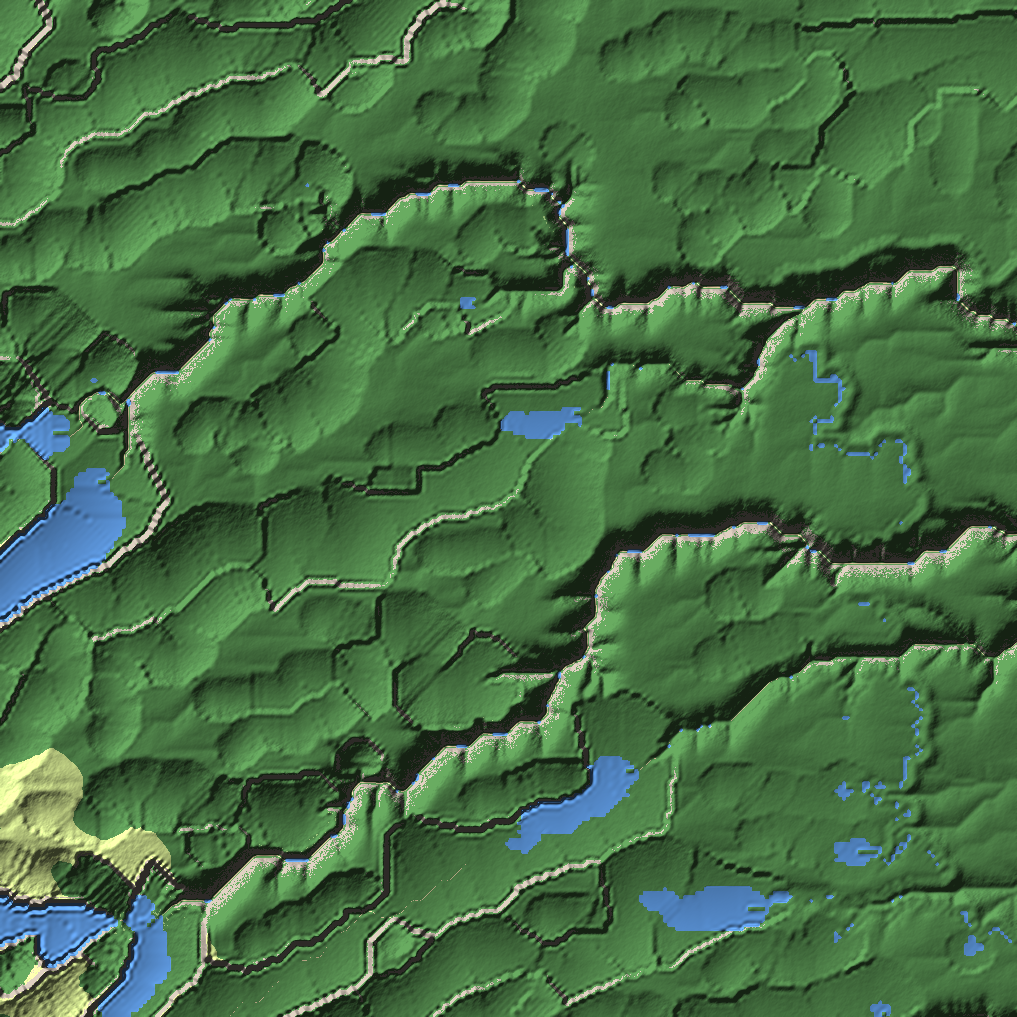
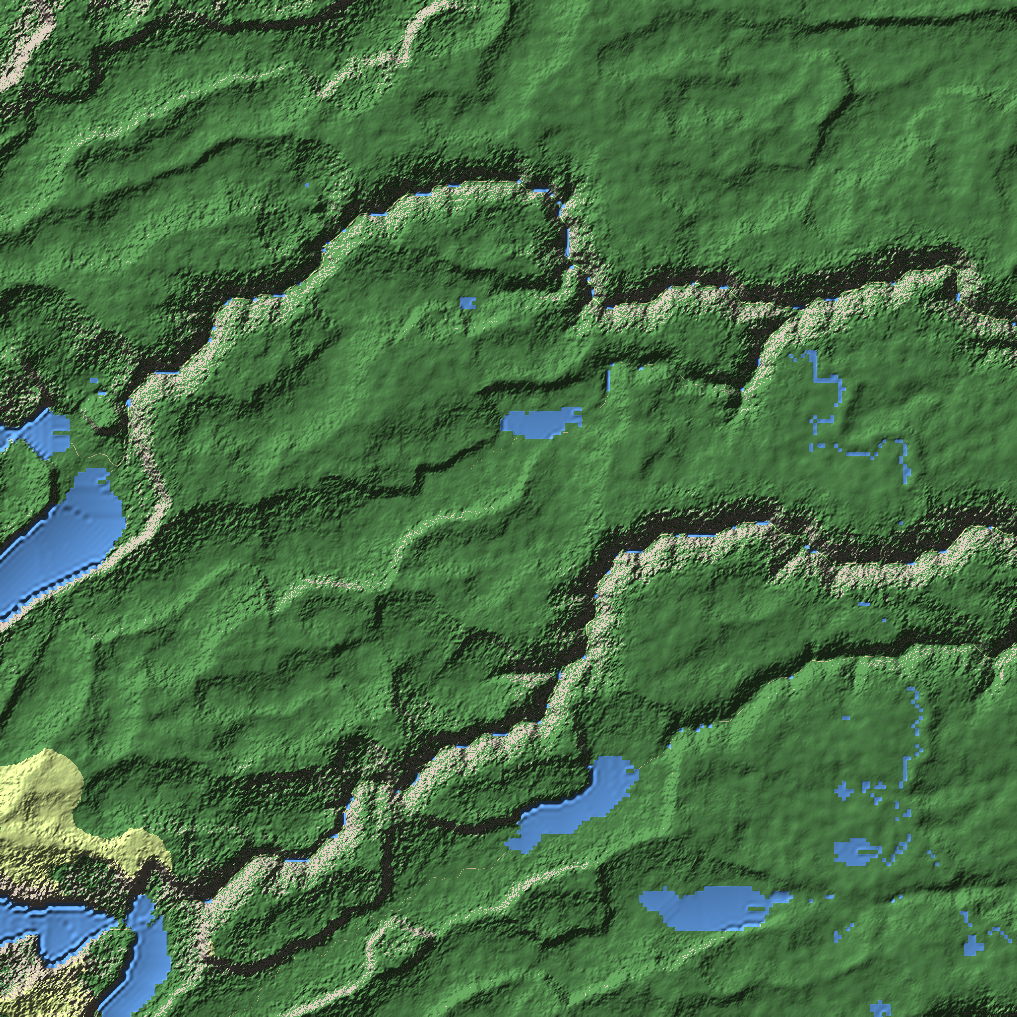
Plot detailing: river inflow fix, 25 m refinement, docs for detailing decisions
Claude-Session: https://claude.ai/code/session_01KF85DV7pzGDALPv8H3oUJH

diff --git a/fictional_map/regions/southern_coast_range/scripts/refine_25m.py b/fictional_map/regions/southern_coast_range/scripts/refine_25m.py
@@ -20,11 +20,11 @@ from region_flow import accumulate, diffuse, route, stream_power
 
 DX = 25.0
 MARGIN_M = 2000.0                 # beyond the square, so the plots' edges are not at the model edge
-ERODE_YR, DT = 2.0e5, 2.0e4
+ERODE_YR, DT = 3.0e5, 2.0e4
 K_SP, M_SP = 1.0e-6, 0.5          # same as the regional model
 D_HILL = 0.01
 POSTGLACIAL_YR = 1.5e4
-SEED_RELIEF_M = 4.0               # sub-100 m roughness from which gullies start
+SEED_RELIEF_M = 6.0               # sub-100 m roughness from which gullies start
 
 t0 = time.time()
 m = np.load(os.path.join(REGION_OUT, "regional_model.npz"))
@@ -47,9 +47,32 @@ LAT, LON = xy_to_latlon(X, Y)
 runoff = np.clip(sample_world(wd["hydro"]["runoff_mm"], LAT, LON, 1), 0, None) / 1000.0
 del LAT, LON
 fixed = sea | lake
+# rivers that enter the refined area from outside (e.g. the main river rising on the range crest west of the
+# square): inject the regional model's discharge where they cross into the 25 m grid
+f100, rec100, _, _, _ = route(z100, m["sea"], 100.0)
+X100, Y100 = np.meshgrid(xs, ys)
+ins100 = (np.abs(X100) < half) & (np.abs(Y100) < half)
+r_ = rec100.reshape(-1)
+src = np.nonzero(~ins100.ravel() & ins100.ravel()[r_] & (np.arange(r_.size) != r_))[0]
+inflow = np.zeros(z.shape)
+Q100 = m["discharge_m3s"].ravel() * 3.15576e7
+for k in src:
+    if Q100[k] <= 0:
+        continue
+    # follow the regional river ~1 km into the grid: cells at the grid edge drain straight out of the model
+    kk = int(r_[k])
+    for _ in range(100):
+        jx, ix_ = divmod(kk, xs.size)
+        if min(half - abs(xs[ix_]), half - abs(ys[jx])) > 1000.0 or r_[kk] == kk:
+            break
+        kk = int(r_[kk])
+    jx, ix_ = divmod(kk, xs.size)
+    jj = int(np.clip((y[0] - ys[jx]) / DX, 0, z.shape[0] - 1)); ii = int(np.clip((xs[ix_] - x[0]) / DX, 0, z.shape[1] - 1))
+    inflow[jj, ii] += Q100[k]
+del X100, Y100
 z = np.where(fixed, z, z + noise)
 kfac = (1 - ice) + ice * (POSTGLACIAL_YR / ERODE_YR)       # young glacial surfaces barely eroded
-q_cell = (runoff * DX * DX).ravel()
+q_cell = (runoff * DX * DX + inflow).ravel()
 H, W = z.shape
 print(f"grid {W} x {H} = {H * W / 1e6:.1f} M cells, setup {time.time() - t0:.0f} s")
 for step in range(int(ERODE_YR / DT)):
@@ -58,7 +81,8 @@ for step in range(int(ERODE_YR / DT)):
     zf = stream_power(z.ravel().copy(), oa, rec, dist, Q * kfac.ravel() ** 2, K_SP, M_SP, DT, fixed.ravel())
     z = diffuse(zf.reshape(H, W), D_HILL, DT, DX, fixed, 1)
     print(f"step {step + 1}: {time.time() - t0:.0f} s", flush=True)
-f, rec, dist, oa, od = route(z, fixed, DX)
+# today's discharge: water flows through the lakes (only the sea is a sink)
+f, rec, dist, oa, od = route(z, sea, DX)
 Qs = (accumulate(od, rec, q_cell) / 3.15576e7).reshape(H, W)
 np.savez_compressed(os.path.join(REGION_OUT, "refined_25m.npz"), x_m=x.astype(np.float32), y_m=y.astype(np.float32),
                     elevation_m=z.astype(np.float32), discharge_m3s=Qs.astype(np.float32), lake=lake, sea=sea,

diff --git a/fictional_map/regions/southern_coast_range/MODEL_NOTES.md b/fictional_map/regions/southern_coast_range/MODEL_NOTES.md
@@ -47,6 +47,24 @@ This file records every scientific decision, why it was made and what it rests o
 - Discharge from the planet's runoff routed over the final terrain. The square's largest river (~130 m³/s at the
   square's edge in this model) drains east towards the sea.
 
+## 6. From 100 m to the 3 m plots
+
+- **25 m refinement (`refine_25m.py`).** Interpolated 100 m terrain plus random noise had the right roughness statistics
+  but the wrong shapes (lumps instead of gullies and spurs). Instead, the same stream-power erosion and hillslope
+  diffusion run again on a 25 m grid for 300 000 years. Former glacier areas are eroded only for the ~15 000 years since
+  the ice melted, so troughs and moraines stay fresh. Rivers entering the area from outside carry the regional model's
+  discharge (injected ~1 km inside the grid so they do not drain straight out of its edge).
+- **Roughness below 100 m (`detail_plots.py`).** Self-affine detail with Hurst exponent 0.5: along transects Earth's
+  topography has a power spectrum close to k⁻² (Hurst ~0.5, fractal dimension ~2.5). Its amplitude follows the local
+  relief and is damped on gentle ground (valley floors, plains). Below ~20 m it is weaker on soil-covered slopes than on rock.
+- **Check of the result:** the spectral exponent of the plots over 100 m – 2 km is ~2.6, inside the accepted band (1.6–2.6),
+  but at its rough end: the plots are still a little smoother than typical Earth terrain at hillslope scale.
+- **Rivers:** courses from the 25 m drainage network (≥ 1 m³/s), smoothed and snapped to the lowest line of the valley floor;
+  width 5·Q^0.5, depth from Manning's equation (n = 0.035) with the local slope; banks rise ~15% and fade into the terrain.
+- **Treeline:** where the growing-season mean temperature (months above 0 °C) is 6.7 °C, the value found at high-altitude
+  treelines worldwide (Körner & Paulsen 2004). Here ~1 280 m.
+- **Seams:** every vertex is computed from world coordinates only; neighbouring plots share identical edge vertices.
+
 ## Known limitations (v1)
 
 - Mountain slopes are gentle for a 2 km range (median ~5°, 90% below ~20° above 1000 m): the planet relief that
@@ -55,4 +73,5 @@ This file records every scientific decision, why it was made and what it rests o
 - Glaciers are placed by the accumulation-area method, not by an ice-flow simulation; ice thickness is not modelled.
 - Glacial sediment (outwash plains in front of the moraines) is not modelled.
 - Small rectangular artefacts can appear where moraine ridges meet the edge of a glacier system.
-- The 100 m grid cannot show streams draining less than a few km²; those come with the 3 m plot detailing.
+- Streams smaller than ~1 m³/s are not cut as channels; they exist only as gullies in the 25 m relief.
+- Ground layers are hard 0/255 masks (no blending between layers yet).

diff --git a/fictional_map/regions/southern_coast_range/VALIDATION_PLOTS.md b/fictional_map/regions/southern_coast_range/VALIDATION_PLOTS.md
@@ -2,19 +2,19 @@
 
 Generated by `scripts/validate_plots.py` for the plots present in `export/`.
 
-**Result: 5 / 7 checks passed** (2 plots, 1 shared edges).
+**Result: 7 / 7 checks passed** (2 plots, 1 shared edges).
 
-Treeline (growing-season mean 6.7 C, Koerner & Paulsen 2004): median height 1268 m.
+Treeline (growing-season mean 6.7 C, Koerner & Paulsen 2004): median height 1279 m.
 
 | Kind | Check | Value | Reference | Accepted band | Result | Source |
 |---|---|---|---|---|---|---|
 | seams | tile_x1_y1 | tile_x2_y1: max height difference on the shared edge (one 16-bit step is 0.078 m) | 0.0 m | 0 | 0–0.08 m | PASS | ue |
-| Earth data | tile_x1_y1: spectral exponent beta of height transects (20 m - 2 km) | 3.2676 | ~2 (1.8-2.1 reported) | 1.6–2.6 | FAIL | spectrum |
-| model | tile_x1_y1: mean difference from the regional model (outside lakes) | -0.3224 m | 0 | -3.0–3.0 m | PASS | model |
-| Earth data | tile_x1_y1: height range fits Unreal Z scale 1000 | 1250.4688 m | <= 2559.9 | 0–2559.9 m | PASS | ue |
-| Earth data | tile_x2_y1: spectral exponent beta of height transects (20 m - 2 km) | 3.3908 | ~2 (1.8-2.1 reported) | 1.6–2.6 | FAIL | spectrum |
-| model | tile_x2_y1: mean difference from the regional model (outside lakes) | -0.0804 m | 0 | -3.0–3.0 m | PASS | model |
-| Earth data | tile_x2_y1: height range fits Unreal Z scale 1000 | 711.25 m | <= 2559.9 | 0–2559.9 m | PASS | ue |
+| Earth data | tile_x1_y1: spectral exponent beta of height transects (100 m - 2 km) (hillslope scale; below ~20 m soil-covered ground is smoother) | 2.5771 | ~2 (1.8-2.1 reported) | 1.6–2.6 | PASS | spectrum |
+| model | tile_x1_y1: mean difference from the base model (outside lakes) | -0.2052 m | 0 | -3.0–3.0 m | PASS | model |
+| Earth data | tile_x1_y1: height range fits Unreal Z scale 1000 | 1184.0625 m | <= 2559.9 | 0–2559.9 m | PASS | ue |
+| Earth data | tile_x2_y1: spectral exponent beta of height transects (100 m - 2 km) (hillslope scale; below ~20 m soil-covered ground is smoother) | 2.572 | ~2 (1.8-2.1 reported) | 1.6–2.6 | PASS | spectrum |
+| model | tile_x2_y1: mean difference from the base model (outside lakes) | -0.0429 m | 0 | -3.0–3.0 m | PASS | model |
+| Earth data | tile_x2_y1: height range fits Unreal Z scale 1000 | 719.0625 m | <= 2559.9 | 0–2559.9 m | PASS | ue |
 
 ## Sources
 

diff --git a/fictional_map/regions/southern_coast_range/USAGE.md b/fictional_map/regions/southern_coast_range/USAGE.md
@@ -179,7 +179,7 @@ record the reason in `MODEL_NOTES.md`, then run both scripts again.
 
 ```
 cd fictional_map/regions/southern_coast_range/scripts
-python refine_25m.py                          # once, ~3-5 minutes, ~3 GB RAM: 25 m erosion refinement
+python refine_25m.py                          # once, ~5 minutes, ~3 GB RAM: 25 m erosion refinement
 python detail_plots.py --tiles x2_y1 --preview  # seconds: 1/8-resolution preview of one plot
 python detail_plots.py --tiles x1_y1 x2_y1      # selected plots, full resolution (~1 minute each)
 python detail_plots.py --tiles all              # all 16 plots (~20 minutes, ~0.6 GB on disk)
@@ -191,7 +191,8 @@ add `--reprep` to rebuild it after re-running `regional_model.py` or `refine_25m
 
 **What `refine_25m.py` does:** re-runs the regional erosion physics on a 25 m grid over the square (+2 km margin),
 so slopes get real gullies and spurs instead of random lumps. Areas covered by glaciers in the last ice age are eroded
-only for the ~15 000 years since the ice melted, so troughs and moraines stay fresh. Lakes and the sea are fixed.
+only for the ~15 000 years since the ice melted, so troughs and moraines stay fresh. Lakes and the sea are fixed;
+rivers coming from outside the area carry the regional model's discharge.
 
 **What `detail_plots.py` does for every vertex** (only world coordinates are used, so neighbouring plots share
 exactly the same edge vertices):

diff --git a/fictional_map/regions/southern_coast_range/README.md b/fictional_map/regions/southern_coast_range/README.md
@@ -37,8 +37,8 @@ mountains rise above 256 m). Neighbouring plots share their edge vertices.
 |---|---|
 | 0. Cut the region out of the planet (`extract_region.py`) | Done |
 | 1. Regional process model at 100 m (`regional_model.py`, checks `validate_region.py`) | Done (v1), 12/12 checks |
-| 2. Plot detailing at ~3 m | Next |
-| 3. Export for Unreal (heightmaps + layer masks) | Planned |
+| 2. Plot detailing at ~3 m and export (`refine_25m.py`, `detail_plots.py`, checks `validate_plots.py`) | Done (v1) |
+| 3. Export for Unreal (heightmaps + layer masks) | Done (v1): generated locally into `export/`, see USAGE.md |
 
 Every step must pass scientific validation before it is accepted.
 Regional checks: [VALIDATION.md](VALIDATION.md). Scientific decisions: [MODEL_NOTES.md](MODEL_NOTES.md).
